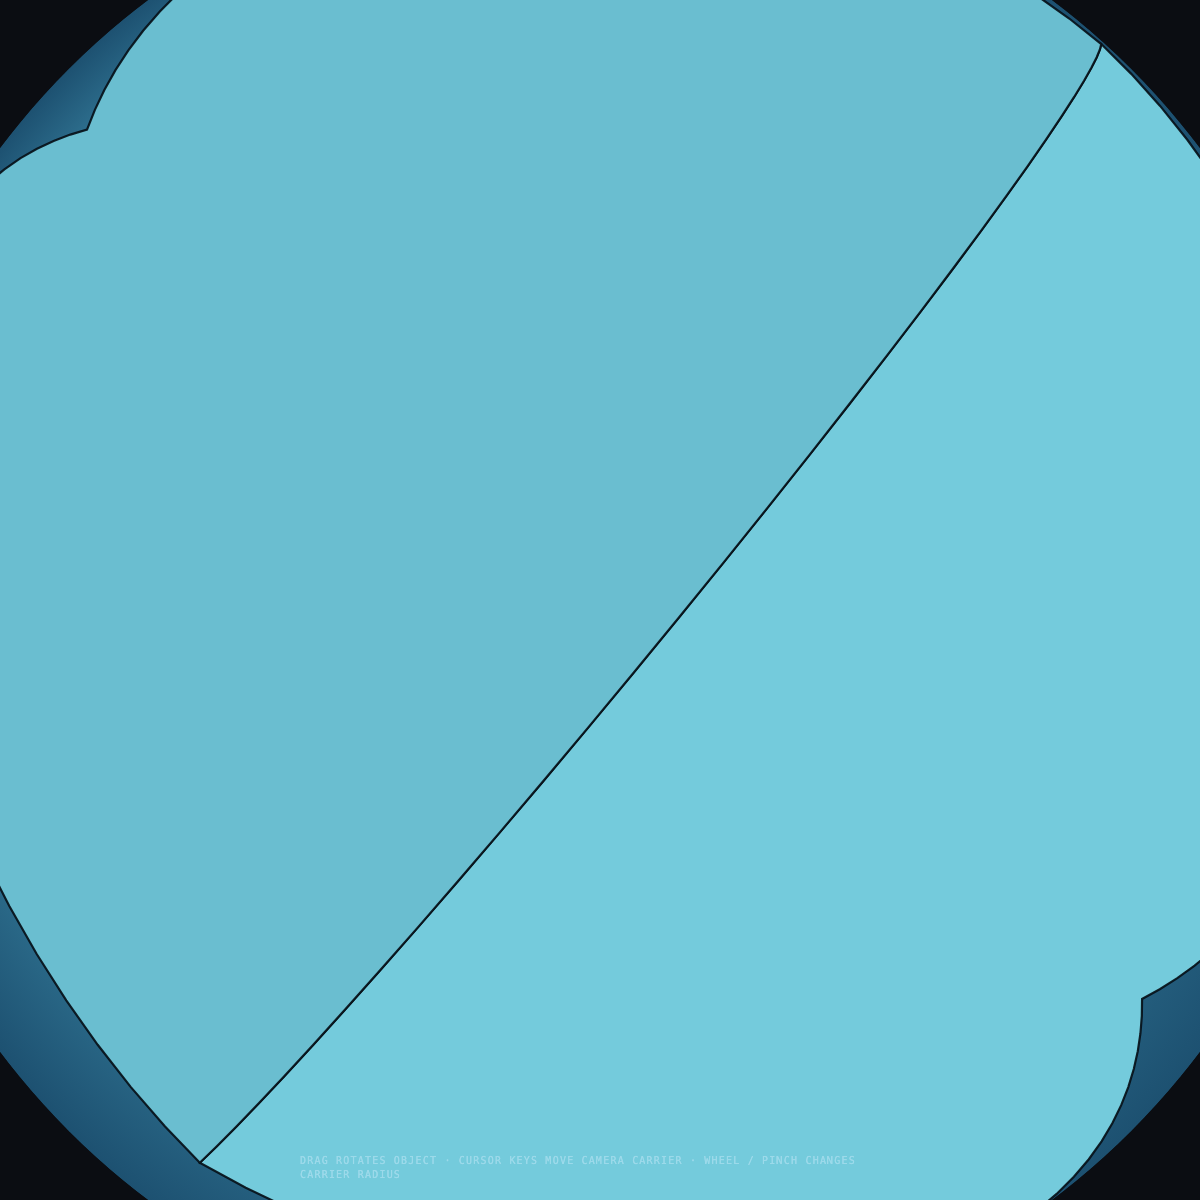
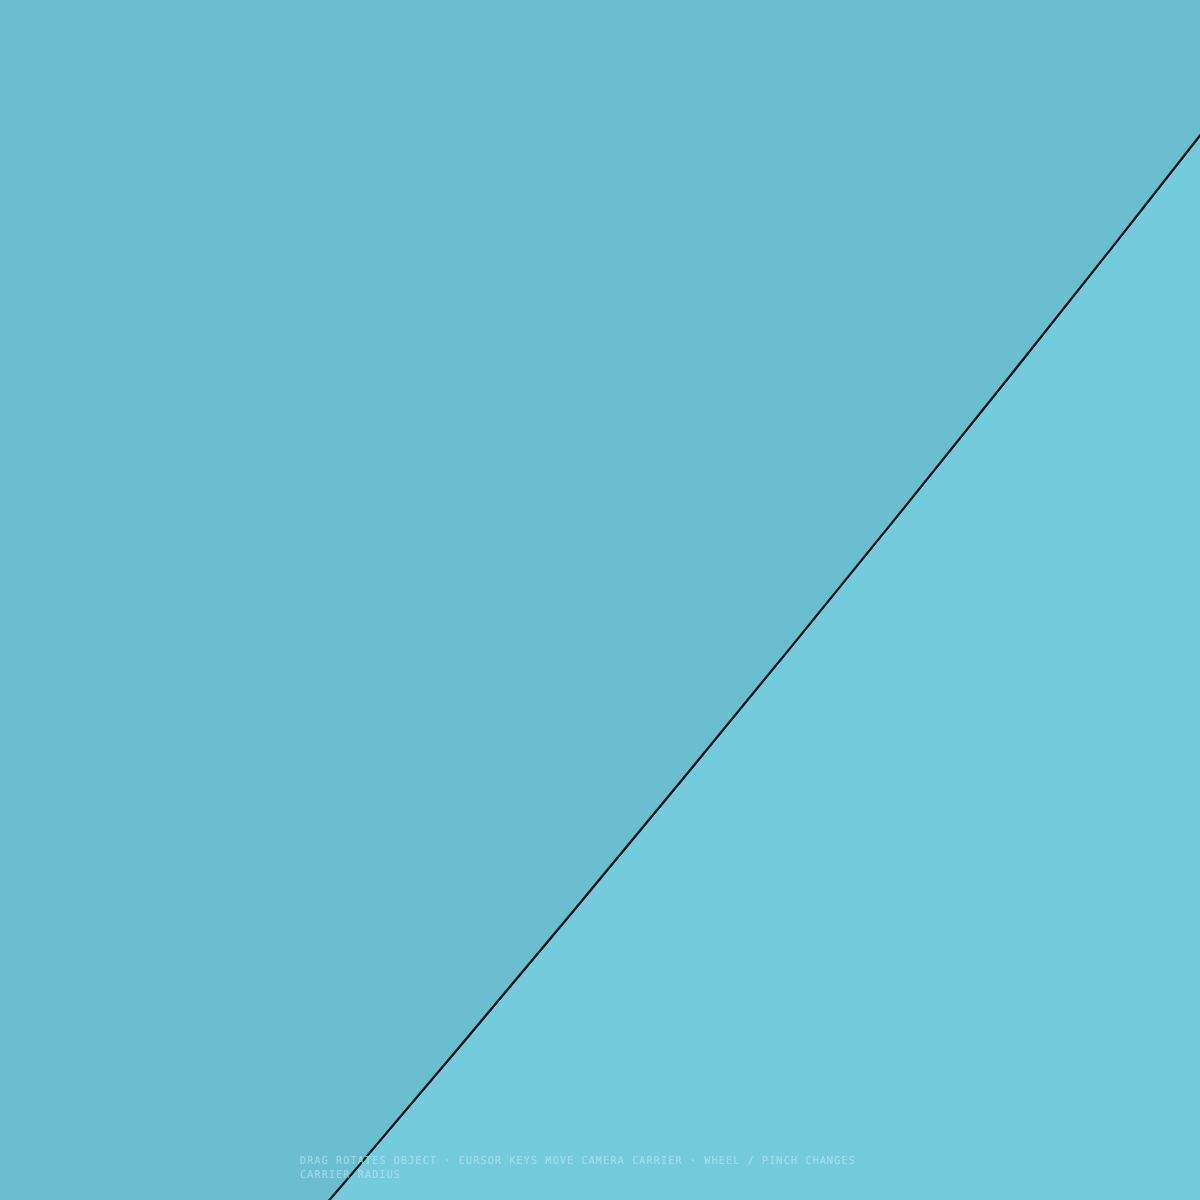
Fixed-focal dolly camera, true carrier zoom, visual acceptance

diff --git a/public/js/icosahedron-viewer.js b/public/js/icosahedron-viewer.js
@@ -2,7 +2,7 @@
  * Interactive spherical icosahedron.
  * - Mouse drag: the grabbed SURFACE POINT follows the cursor exactly.
  * - Cursor keys: the camera carrier moves on a free orbit; Up continues up locally.
- * - Wheel/pinch: changes the carrier sphere radius (dolly).
+ * - Wheel/pinch: changes the carrier sphere radius with fixed focal length (true dolly).
  */
 import { SphereCamera, SPHERE_SCREEN_FRACTION, CAMERA_DISTANCE, baseIcosahedron } from './shared/geometry.js';
 import { unprojectSphere as unprojectSurface, shortestArcQuat } from './shared/sphere-interaction.js';
@@ -80,8 +80,26 @@ window.addEventListener('resize', resize);
 resize();
 
 /** Screen point -> visible unit-sphere surface point. */
+function focalPixels() {
+  // Fixed focal length: moving the carrier must change perspective, not scale.
+  return Math.min(W, H) * SPHERE_SCREEN_FRACTION * CAMERA_DISTANCE;
+}
+
+function projectPoint(v) {
+  const f = focalPixels();
+  const pv = qRotateVec(camera._q, v);
+  const depth = camera.distance - pv.z;
+  if (!(depth > 1e-9)) return { x: 0, y: 0, z: pv.z, visible: false };
+  return {
+    x: W / 2 + (f * pv.x) / depth,
+    y: H / 2 - (f * pv.y) / depth,
+    z: pv.z,
+    visible: pv.z > 0,
+  };
+}
+
 function unprojectSphere(xPx, yPx) {
-  return unprojectSurface(camera, xPx, yPx, W, H);
+  return unprojectSurface(camera, xPx, yPx, W, H, focalPixels());
 }
 
 function draw() {
@@ -93,7 +111,7 @@ function draw() {
   const cx = W / 2;
   const cy = H / 2;
   const d = camera.distance;
-  const radius = Math.min(W, H) * SPHERE_SCREEN_FRACTION * (d / Math.sqrt(Math.max(1e-6, d * d - 1)));
+  const radius = focalPixels() / Math.sqrt(Math.max(1e-6, d * d - 1));
   const sphere = ctx.createRadialGradient(cx - radius * 0.36, cy - radius * 0.36, radius * 0.08, cx, cy, radius);
   sphere.addColorStop(0, 'rgb(126,210,230)');
   sphere.addColorStop(0.68, 'rgb(57,132,162)');
@@ -115,7 +133,7 @@ function draw() {
     if (vecDot(normal, centroid) < 0) normal = vecMul(normal, -1);
     // Back-face culling in world space; skip faces that cross the silhouette.
     if (vecDot(normal, vecSub(camPos, centroid)) <= 0) continue;
-    if (!camera.project(A).visible || !camera.project(B).visible || !camera.project(C).visible) continue;
+    if (!projectPoint(A).visible || !projectPoint(B).visible || !projectPoint(C).visible) continue;
     const points = [];
     for (const [p, q] of [[A, B], [B, C], [C, A]]) {
       for (let i = 0; i < 32; i += 1) {
@@ -126,10 +144,10 @@ function draw() {
         const r = vecSub(q, vecMul(p, dot));
         const rl = Math.hypot(r.x, r.y, r.z) || 1;
         const v = vecNorm(vecAdd(vecMul(p, Math.cos(theta)), vecMul(r, sin / rl)));
-        points.push(camera.project(v));
+        points.push(projectPoint(v));
       }
     }
-    const depth = camera.project(centroid).z;
+    const depth = projectPoint(centroid).z;
     const light = 0.55 + 0.45 * Math.max(0, Math.min(1, vecDot(normal, vecNorm({ x: -0.35, y: 0.55, z: 0.76 }))));
     drawFaces.push({ points, depth, fi, light });
   }
@@ -230,4 +248,4 @@ canvas.addEventListener('wheel', (event) => {
   camera.distance = carrierDistance;
 }, { passive: false });
 
-window.__ICOSA_VIEW__ = { camera, objectQ: () => objectQ, vertices, unprojectSphere, project: (v) => camera.project(qRotateVec(objectQ, v)), orbit: () => ({ yaw: camera._yaw, pitch: camera._pitch, q: camera._q, viewAxis: camera.viewAxis() }), setObjectQ: (q) => { objectQ = qNorm(q); } };
+window.__ICOSA_VIEW__ = { camera, objectQ: () => objectQ, vertices, unprojectSphere, project: (v) => projectPoint(qRotateVec(objectQ, v)), orbit: () => ({ yaw: camera._yaw, pitch: camera._pitch, q: camera._q, viewAxis: camera.viewAxis() }), setObjectQ: (q) => { objectQ = qNorm(q); } };

diff --git a/public/js/shared/sphere-interaction.js b/public/js/shared/sphere-interaction.js
@@ -12,10 +12,9 @@ const mul = (a, k) => ({ x: a.x * k, y: a.y * k, z: a.z * k });
 const cross = (a, b) => ({ x: a.y * b.z - a.z * b.y, y: a.z * b.x - a.x * b.z, z: a.x * b.y - a.y * b.x });
 
 /** Screen point -> visible unit-sphere surface point, or null. */
-export function unprojectSphere(camera, xPx, yPx, width, height) {
+export function unprojectSphere(camera, xPx, yPx, width, height, focalPx = null) {
   if (!camera || typeof camera.project !== 'function') return null;
-  const radius = Math.min(width, height) * SPHERE_SCREEN_FRACTION;
-  const focal = radius * camera.distance;
+  const focal = Number.isFinite(focalPx) ? focalPx : Math.min(width, height) * SPHERE_SCREEN_FRACTION * camera.distance;
   const X = xPx - width / 2;
   const Y = height / 2 - yPx;
   const dirCam = norm({ x: X, y: Y, z: -focal }); // negative Z: into the scene

diff --git a/narimato-physics.md b/narimato-physics.md
@@ -25,7 +25,8 @@
 One camera. It always sits on a **concentric orbit sphere** around the object centre.
 
 - The camera is fixed to a carrier point on that outer sphere.
-- **Zoom changes the carrier sphere radius** (`camera.distance`), not optical field of view.
+- **Zoom changes the carrier sphere radius** (`camera.distance`) with a **fixed focal length**;
+  moving the carrier changes perspective/size like a real dolly, not a projection zoom.
 - The camera orbits freely and always faces the centre; zoom changes the carrier radius.
 - “Space”, “flight”, “building” and “surface” are **the same object viewed by the same camera
   orbit at a chosen orientation**, not different cameras with different distances.
@@ -45,6 +46,7 @@ Cursor keys move the camera, not the object.
 - The orbit is a **free quaternion**: repeated `Up` keeps moving the camera up and loops over the
   pole; there is no pitch clamp.
 - Wheel/pinch changes the carrier sphere radius (`camera.distance`) within `[1.3, 8.0]`.
+- Projection focal length is fixed; the carrier moving is a real dolly, not projection zoom.
 
 ## 3. Object rotation (mouse)
 
@@ -71,8 +73,9 @@ screen-axis rotation for the object; do not use an abstract arcball vector when 
 Screen → ray → sphere intersection:
 
 ```
-radius = min(W,H) * SPHERE_SCREEN_FRACTION
-focal  = radius * camera.distance
+focal  = min(W,H) * SPHERE_SCREEN_FRACTION * CAMERA_DISTANCE  // fixed
+screenX = W/2 + focal * pv.x / (camera.distance - pv.z)
+screenY = H/2 - focal * pv.y / (camera.distance - pv.z)
 X = x - W/2
 Y = H/2 - y                      // screen Y is down; camera Y is up
 
@@ -132,6 +135,7 @@ Measured acceptance (1200×1200):
 - point-follow error X: `5.061e-7 px`
 - point-follow error Y: `7.054e-7 px`
 - visual acceptance: default/close/upside-down screenshots pass coverage/background checks
+- zoom: carrier `3.2 → 1.756` on wheel-up
 - cursor Up: view-axis Y `0.2667 → 0.4004` (camera up), yaw unchanged
 - 41× Up: quaternion norm `1.0`, no clamp/flip
 
